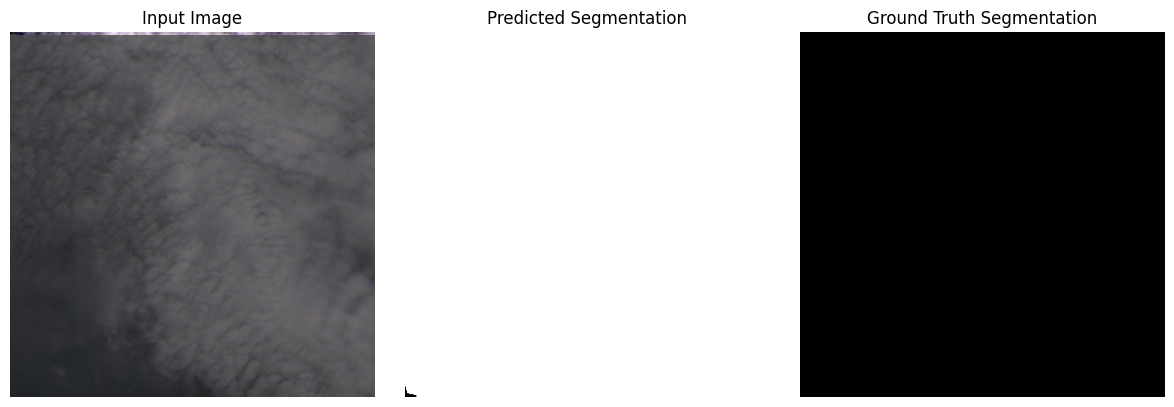
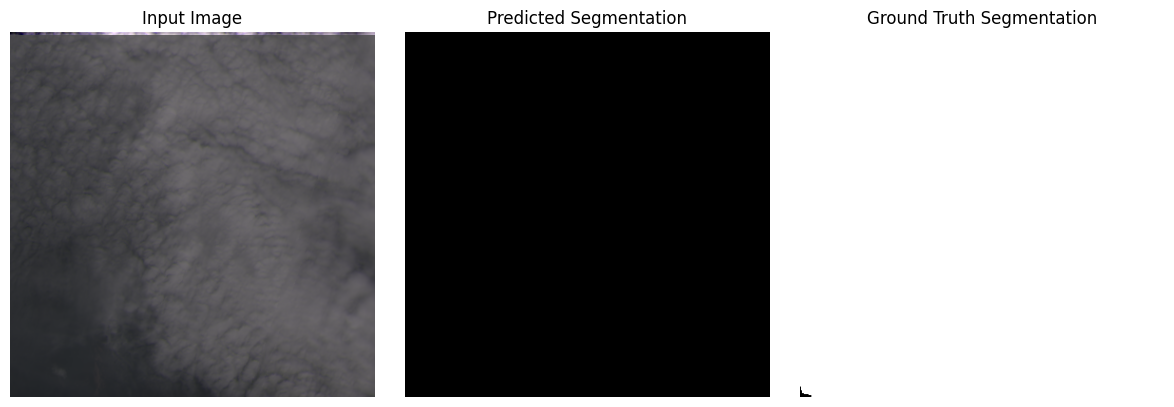
fix plotting

diff --git a/test.py b/test.py
@@ -30,8 +30,8 @@ def plot_comparison(input_image, predicted_segmentation, ground_truth_segmentati
 
     plt.tight_layout()
     # plt.show()
-    # fig.savefig(f"results/cloud-unet-2/segmentation_example_{idx}.png", bbox_inches="tight")
-    fig.savefig(f"results/segformer/segmentation_example_{idx}.png", bbox_inches="tight")
+    fig.savefig(f"results/cloud-unet-2/segmentation_example_{idx}.png", bbox_inches="tight")
+    # fig.savefig(f"results/segformer/segmentation_example_{idx}.png", bbox_inches="tight")
     plt.close()
 
 
@@ -39,23 +39,23 @@ def main():
     device = "cuda" if torch.cuda.is_available() else "cpu"
     cloud_dataset = Clouds("./data/stacked", "./data/gt")
     
-    # model = CloudUnet().to(device)
-    # checkpoint = torch.load("results/cloud-unet-2/cloud-unet-2_epoch_30.pt")
-    model = SegFormer(
-        in_channels=4,
-        widths=[64, 128, 256, 512],
-        depths=[3, 4, 6, 3],
-        all_num_heads=[1, 2, 4, 8],
-        patch_sizes=[7, 3, 3, 3],
-        overlap_sizes=[4, 2, 2, 2],
-        reduction_ratios=[8, 4, 2, 1],
-        mlp_expansions=[4, 4, 4, 4],
-        decoder_channels=256,
-        scale_factors=[8, 4, 2, 1],
-        num_classes=2,
-        scale_factor=4
-        ).to(device)
-    checkpoint = torch.load("results/segformer/segformer_epoch_17.pt")
+    model = CloudUnet().to(device)
+    checkpoint = torch.load("results/cloud-unet-2/cloud-unet-2_epoch_30.pt")
+    # model = SegFormer(
+    #     in_channels=4,
+    #     widths=[64, 128, 256, 512],
+    #     depths=[3, 4, 6, 3],
+    #     all_num_heads=[1, 2, 4, 8],
+    #     patch_sizes=[7, 3, 3, 3],
+    #     overlap_sizes=[4, 2, 2, 2],
+    #     reduction_ratios=[8, 4, 2, 1],
+    #     mlp_expansions=[4, 4, 4, 4],
+    #     decoder_channels=256,
+    #     scale_factors=[8, 4, 2, 1],
+    #     num_classes=2,
+    #     scale_factor=4
+    #     ).to(device)
+    # checkpoint = torch.load("results/segformer/segformer_epoch_17.pt")
     
     model.load_state_dict(checkpoint)
     model.eval()
@@ -71,7 +71,7 @@ def main():
             input_img = input_img.squeeze().cpu().numpy()
             gt = gt.squeeze().cpu().numpy()
             
-            plot_comparison(input_img[:3], gt, predicted_mask, idx)
+            plot_comparison(input_img[:3], predicted_mask, gt, idx)
             
             if idx >= 20:
                 break

diff --git a/dataset.py b/dataset.py
@@ -12,8 +12,8 @@ class Clouds(Dataset):
         self.stacked_files = sorted([os.path.join(stacked_path, file) for file in os.listdir(stacked_path)])
         self.gt_files = sorted([os.path.join(gt_path, file) for file in os.listdir(gt_path)])
         
-        print(self.stacked_files[:20])
-        print(self.gt_files[:20])
+        # for s, g in zip(self.stacked_files[:20], self.gt_files[:20]):
+        #     print(s, g)
         
         # self.stacked_files = self.stacked_files[:100]
         # self.gt_files = self.gt_files[:100]
